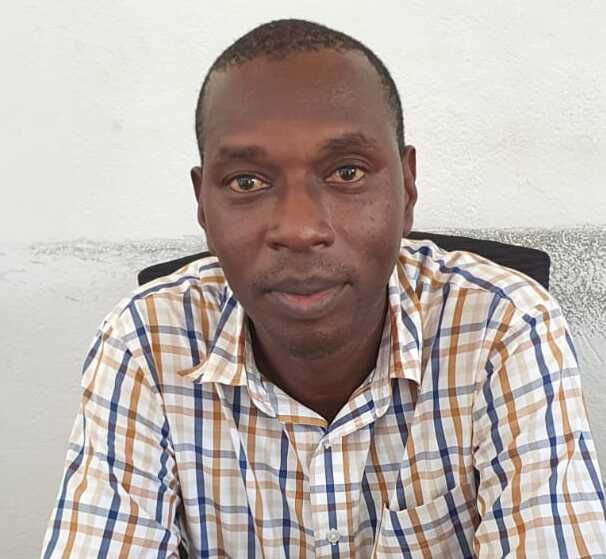
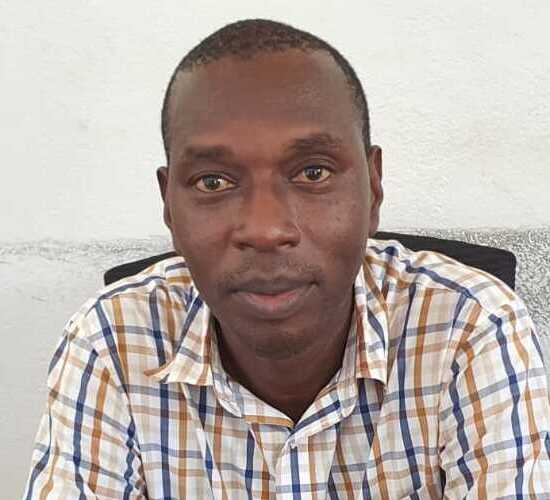
fix: rename North Rift region to Central Rift Valley
- Updated region name from North Rift to Central Rift Valley across REGIONS, OVERSEER_BY_REGION, and BRANCHES in mock-data.ts
- Updated OrgTree.tsx to include central-rift in the joint photo frame check

diff --git a/src/lib/mock-data.ts b/src/lib/mock-data.ts
@@ -26,12 +26,12 @@ export const REGIONS: Region[] = [
       "Reaching communities across Western Kenya with the Gospel of Jesus Christ, led by Rev. Hudson Musamusi and Mrs. Everlyne Kisanya.",
   },
   {
-    id: "north-rift",
-    name: "North Rift",
+    id: "central-rift",
+    name: "Central Rift Valley",
     overseerName: "Rev. Charlse Koech and Mrs. Caroline Cheropkoech",
     overseerPhotoURL: "/images/leadership/north-rift-overseers.jpg",
     description:
-      "Reaching communities across the North Rift region, led by Rev. Charlse Koech and Mrs. Caroline Cheropkoech.",
+      "Reaching communities across the Central Rift Valley region, led by Rev. Charlse Koech and Mrs. Caroline Cheropkoech.",
   },
   {
     id: "kilgoris",
@@ -80,8 +80,9 @@ export const MRS_HUDSON_PHOTO =
 export const REV_SONKOK_PHOTO = "/images/leadership/rev-thomas-sonkok.jpg";
 export const MRS_SONKOK_PHOTO = "/images/leadership/mrs-sonkok.jpg";
 export const REV_KATANA_PHOTO = "/images/leadership/rev-katana.jpg";
-export const NORTH_RIFT_PHOTO =
+export const CENTRAL_RIFT_PHOTO =
   "/images/leadership/north-rift-overseers.jpg";
+export const NORTH_RIFT_PHOTO = CENTRAL_RIFT_PHOTO;
 export const RONALD_CHIWAI_PHOTO =
   "/images/leadership/ronald-ngala-chiwai.jpg";
 export const RONALD_CHIWAI_SPOUSE_PHOTO =
@@ -118,14 +119,14 @@ const OVERSEER_BY_REGION: Partial<
     photoURL: MERU_OVERSEERS_PHOTO,
     bio: "Rev. Rotich Kamama and Mrs. Stellar Kamama serve as Regional Overseers for Meru Region, shepherding branch pastors and advancing ministry in Meru and surrounding communities.",
   },
-  "north-rift": {
+  "central-rift": {
     name: "Rev. Charlse Koech",
     displayName: "Rev. Charlse Koech and Mrs. Caroline Cheropkoech",
     title: "Overseer",
     spouseName: "Mrs. Caroline Cheropkoech",
     // Joint couple photo (single image)
-    photoURL: NORTH_RIFT_PHOTO,
-    bio: "Rev. Charlse Koech and Mrs. Caroline Cheropkoech serve as Regional Overseers for North Rift Region, shepherding branch pastors and advancing ministry across the North Rift.",
+    photoURL: CENTRAL_RIFT_PHOTO,
+    bio: "Rev. Charlse Koech and Mrs. Caroline Cheropkoech serve as Regional Overseers for Central Rift Valley Region, shepherding branch pastors and advancing ministry across Central Rift Valley.",
   },
   western: {
     name: "Reverend Hudson Musamusi",
@@ -347,10 +348,10 @@ export const BRANCHES: Branch[] = [
     isMainCampus: false,
   },
   {
-    id: "north-rift-nakuru",
+    id: "central-rift-nakuru",
     name: "Nakuru Branch",
-    regionId: "north-rift",
-    address: "Nakuru, North Rift",
+    regionId: "central-rift",
+    address: "Nakuru, Central Rift Valley",
     serviceTimes: [
       { day: "Sunday", time: "10:00 AM", label: "Main Service" },
     ],

diff --git a/src/components/leadership/OrgTree.tsx b/src/components/leadership/OrgTree.tsx
@@ -137,6 +137,7 @@ function CouplePortrait({
             leader.displayName?.includes("Overseers"),
         ) ||
         leader.regionId === "meru" ||
+        leader.regionId === "central-rift" ||
         leader.regionId === "north-rift");
 
     const frameClass = isJointSinglePhoto
